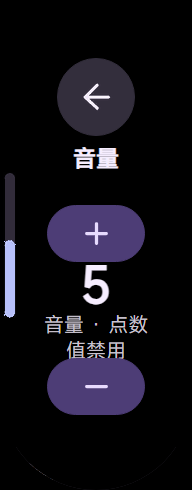
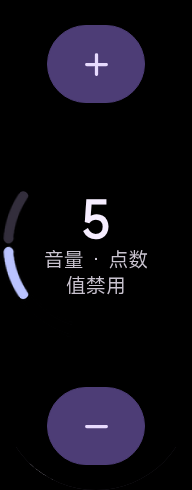
docs(Stepper): 更新预览截图
重新生成四设备 Stepper / LevelIndicator 设计预览与含 Stepper 的宣传图（components-display、cover-light/dark）；其余预览为时钟与字形渲染噪声，已还原。UI-IMPLEMENTATION / UI-REWORK 同步新的布局、层级动画与按压说明。

diff --git a/docs/UI-IMPLEMENTATION.md b/docs/UI-IMPLEMENTATION.md
@@ -11,8 +11,8 @@
 | 导航 | 顶部圆形箭头随列表滚动；右滑结束后返回；覆盖层、页面内演示、路由依次关闭 |
 | 按钮 | Filled / Tonal / Outlined / Child、主副标签、三类 IconButton、Compact、禁用；默认固定形状与可选 Button / IconButton 形变分别演示 |
 | 开关 | 官方两组：无／有行首图标，滑块内始终有对勾；每组开启、关闭、禁用开启、禁用关闭；band 纵向堆叠、开关右对齐为适配 |
-| Stepper | 顶部增加、中部数值、底部减少，0–10 范围和独立禁用态；点击数值切换禁用，左右位置条不使用列表滚动状态 |
-| 数值位置 | 独立 LevelIndicator 演示及 Stepper 联动；圆屏弧形，矩形与手环直条 |
+| Stepper | 全屏、无返回头部（右滑返回），顶部增加、中部数值与标签、底部减少（0.35/0.3/0.35，8dp 间隔，5.2% 屏高内边距）；0–10 范围和独立禁用态（按钮、数值、标签都变灰）；点击数值切换禁用；长按 500ms 后每 60ms 重复 |
+| 数值位置 | 独立 LevelIndicator 演示及 Stepper 联动；所有设备都是屏宽圆上的官方弧（3dp 移动间隙，近端点画成圆点），数值变化 tween 500ms CubicBezier(0,0,0,1) |
 | 分页 | 页内横向和纵向演示；3 / 8 页切换；最多显示六个点、边缘收敛；圆屏沿屏幕弧线排列 |
 | 时间 | 手环 HH / MM 上下排列；直排和 Arc 分别展示纯时间、状态＋分隔符＋时间；窄屏 Arc 缩短状态 |
 | 进度 | 确定、不确定、分段、局部弧形、线性；0 / 5 / 50 / 95 / 100 预置值和自动演示 |
@@ -42,7 +42,8 @@ node tools/package-builds.js
 | 对勾 | 静态 Material 图标 | 官方 `wear_m3c_check_animation.xml` 的变换路径、267ms，约 30fps | PNG8 与抗锯齿带来栅格差异 |
 | 开关 | 位移、缩放和状态颜色 | 10 帧 / 300ms，图标、滑块尺寸和位移 | 禁用颜色当前采用透明度近似，轨道颜色帧间切换，不是完全连续混色 |
 | 可选按钮形变 | 瞬时圆角状态 | 按下 3 帧 / 100ms，释放约 30fps / 600ms | 圆角插值仍为项目近似；快速重入从端点开始，非 Android 物理弹簧连续接续 |
-| Stepper 按压 | 瞬时圆角状态 | 相同 | 没有独立的连续圆角帧动画 |
+| Stepper 按压 | 底色 #4D3D76→#5D4D84（临界阻尼 12600 / 260，33ms 采样） | 同基础版，另加圆角 24→8dp | 没有涟漪扩散，只有颜色淡入；33ms 采样而非 60Hz |
+| LevelIndicator 变化 | 两张整弧旋转 + 静态遮罩 + 圆点，tween 500ms，33ms 计时器 | 相同 | vela-watch-5.0 模拟器上实测每帧约 66–77ms（JS ≈1.4ms/帧）；真机未验证 |
 | 分页点 | 当前页高亮、首末边缘收敛 | 相同 | 不是完整复刻官方连续翻页插值 |
 | 按钮默认反馈 | 透明度按压反馈 | 相同 | Vela 适配，不等同 Android ripple |
 

diff --git a/docs/UI-REWORK-2026-10-24.md b/docs/UI-REWORK-2026-10-24.md
@@ -10,6 +10,7 @@
 - 实际按钮接入反馈。IconButton 和完整 Button 保留可选形变；CompactButton 保持 32dp 可见区、48dp 触控区，额外形变标为适配。播放／暂停使用同一图标体系的适配过渡。
 - SwitchButton 以选择器切换四种图标组合，每组有开、关、禁用开、禁用关。两种 API 共用 32×24dp 图形，轨道实际高 22dp；禁用轨道、滑块和图标分别着色，反向从当前状态继续。
 - LevelIndicator 采用 72° / 6dp、SecondaryDim / SurfaceContainer，按实际路径包围盒裁切；独立于列表滚动，并单独生成禁用图形。
+- 2026-10-24 Stepper 追加：所有设备去掉返回头部，按 androidx Stepper 全屏布局；LevelIndicator 改为 ScrollIndicator.kt 的屏宽圆弧（3dp 移动间隙、近端点圆点），tween 500ms 从当前位置重启；按压改为底色 #4D3D76→#5D4D84 + 12600/260 形状弹簧；长按 60ms 连发；禁用标签同样变灰。
 - 分页移植参考窗口与收敛计算，包含六个可见点、背景弧和选中弧段。内容与指示器随拖动同步，阈值为 25%，首末夹紧，区域内右滑不返回。
 - Arc TimeText 使用模拟器 MiSansW 的真实 advances、ascent / descent 和字形 PNG，顶部与示例共用排版。先保留完整时间，再截短状态；状态移除时一起移除分隔符。Pro 顶部直排，round / band 顶部 Arc。
 - Slider 采用 12dp 选中条、4dp 未选中条、2dp 分隔点，包含连续、分段及变色。band 的轨道、数值和 48dp 增减键纵向重排。
